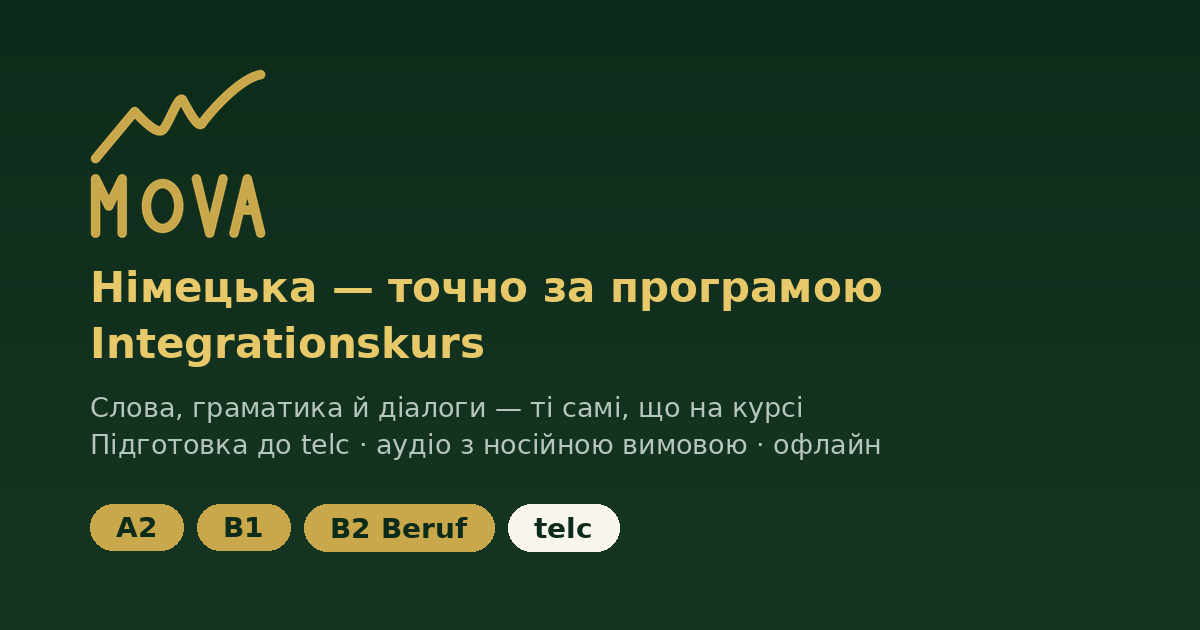
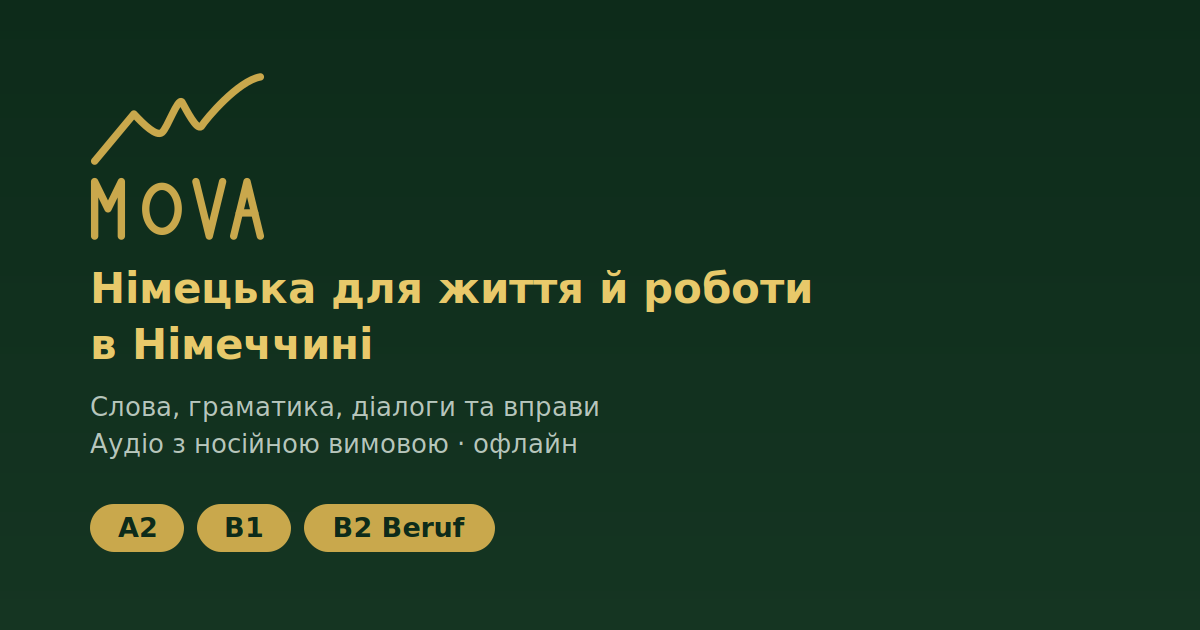
Add files via upload

diff --git a/index.html b/index.html
@@ -14,8 +14,8 @@
 <meta name="apple-mobile-web-app-capable" content="yes">
 <meta name="apple-mobile-web-app-status-bar-style" content="black-translucent">
 <meta name="apple-mobile-web-app-title" content="MOVA">
-<title>MOVA — німецька точно за програмою Integrationskurs</title>
-<meta name="description" content="Слова, граматика й діалоги — ті самі, що на інтеграційних курсах A2, B1 та B2 Beruf. Готуйся до telc з телефону: аудіо з носійною вимовою, живі діалоги, офлайн.">
+<title>MOVA — німецька для життя й роботи в Німеччині</title>
+<meta name="description" content="Слова, граматика й вправи на рівнях A2, B1 та B2 Beruf. Вчи німецьку з телефону: аудіо з носійною вимовою, живі діалоги, офлайн.">
 
 <!-- Open Graph — прев'ю посилання в месенджерах (WhatsApp, Telegram, Viber, Signal...).
      Важливо: ці теги СТАТИЧНІ — краулери месенджерів HTML не рендерять і JS не
@@ -30,8 +30,8 @@
 <meta property="og:type" content="website">
 <meta property="og:site_name" content="MOVA">
 <meta property="og:url" content="https://mova.now/">
-<meta property="og:title" content="MOVA — німецька точно за програмою Integrationskurs">
-<meta property="og:description" content="Слова, граматика й діалоги — ті самі, що на інтеграційних курсах A2, B1 та B2 Beruf. Готуйся до telc: аудіо з носійною вимовою, живі діалоги, офлайн — просто з телефону.">
+<meta property="og:title" content="MOVA — німецька для життя й роботи в Німеччині">
+<meta property="og:description" content="Слова, граматика й вправи на рівнях A2, B1 та B2 Beruf: аудіо з носійною вимовою, живі діалоги, офлайн — просто з телефону.">
 <meta property="og:image" content="https://mova.now/og-image.png">
 <meta property="og:image:width" content="1200">
 <meta property="og:image:height" content="630">
@@ -40,8 +40,8 @@
 <!-- Twitter Card — деякі клієнти (напр. Telegram Instant View, X) читають саме ці,
      а не og:*, тому дублюємо ті самі значення. -->
 <meta name="twitter:card" content="summary_large_image">
-<meta name="twitter:title" content="MOVA — німецька точно за програмою Integrationskurs">
-<meta name="twitter:description" content="Слова, граматика й діалоги — ті самі, що на інтеграційних курсах A2, B1 та B2 Beruf. Готуйся до telc: аудіо з носійною вимовою, живі діалоги, офлайн.">
+<meta name="twitter:title" content="MOVA — німецька для життя й роботи в Німеччині">
+<meta name="twitter:description" content="Слова, граматика й вправи на рівнях A2, B1 та B2 Beruf: аудіо з носійною вимовою, живі діалоги, офлайн — просто з телефону.">
 <meta name="twitter:image" content="https://mova.now/og-image.png">
 <link rel="manifest" href="manifest.json">
 <link rel="apple-touch-icon" href="icon-192.png">
@@ -2849,6 +2849,17 @@ body{
 .ui-lang-btn.ssec-btn{font-size:var(--fs-tertiary);text-align:left;padding:14px 18px}
 .ui-lang-btn .mf{ font-size:1.3em;margin-right:12px;vertical-align:-.25em; }
 .ui-lang-btn.active{border-color:var(--gold);background:rgba(201,168,76,.12);color:var(--gold);font-weight:600}
+/* Кнопки-посилання в налаштуваннях (Політика конфіденційності, Імпресум): напис на кнопці + стрілка */
+.ssec-note{font-size:13px;line-height:1.55;color:var(--muted);margin:2px 2px 14px}
+.ssec-note b{color:var(--warm);font-weight:600}
+.ssec-link-btn{display:flex;align-items:center;width:100%;font-weight:600}
+.ssec-link-btn > span{flex:1}
+.ssec-link-btn .mi-inline{color:var(--gold)}
+.ssec-link-btn .ssec-link-chev{width:1.1em;height:1.1em;flex-shrink:0;color:var(--muted);margin:0 0 0 10px}
+.ssec-link-btn.ssec-action-btn{justify-content:center;gap:6px;white-space:nowrap}
+.ssec-link-btn.ssec-action-btn > span{flex:none}
+.ssec-action-btn #fs-default-val{color:var(--muted);font-weight:500}
+.ssec-link-btn:active{border-color:var(--gold);background:rgba(201,168,76,.12)}
 .fs-setting-val{font-weight:700;font-size:var(--fs-tertiary);color:var(--gold);min-width:36px;text-align:right}
 .fs-setting-scale{display:flex;justify-content:space-between;font-size:var(--fs-utility);color:var(--muted);margin-top:-4px}
 .sp-label{font-size:var(--fs-tertiary);letter-spacing:.8px;text-transform:uppercase}
@@ -5073,9 +5084,7 @@ body{
       <div class="fs-setting-scale">
         <span>14px</span><span>21px</span><span>28px</span>
       </div>
-      <button type="button" class="btn btn-s" style="align-self:flex-start" onclick="resetFontSize()">
-        <span data-i18n="btn_fontsize_reset">Zurücksetzen</span> <span id="fs-default-val"></span>
-      </button>
+      <button type="button" class="btn ui-lang-btn ssec-btn ssec-link-btn ssec-action-btn" onclick="resetFontSize()"><i data-mi="repeat" class="mi-inline"></i><span data-i18n="btn_fontsize_reset">Standardgröße</span><span id="fs-default-val"></span></button>
     </div>
     </div>
     </div><!-- /ГРУПА 1 -->
@@ -5149,13 +5158,10 @@ body{
         <span class="dbg-switch-track"></span>
       </label>
     </div>
-    <div class="srow">
-      <div class="srow-label"><label data-i18n="lbl_privacy_policy">Datenschutzerklärung</label></div>
-      <button class="btn btn-s" style="white-space:nowrap" onclick="window.openPrivacyPolicy&&window.openPrivacyPolicy()"><i data-mi="clipboard" class="mi-inline"></i><span data-i18n="btn_open">Öffnen</span></button>
-    </div>
-    <div class="srow">
-      <div class="srow-label"><label data-i18n="lbl_impressum">Impressum</label></div>
-      <button class="btn btn-s" style="white-space:nowrap" onclick="window.openImpressum&&window.openImpressum()"><i data-mi="clipboard" class="mi-inline"></i><span data-i18n="btn_open">Öffnen</span></button>
+    <p class="ssec-note" data-i18n-html="txt_analytics_info"></p>
+    <div style="display:flex;flex-direction:column;gap:8px;padding:4px 0 0">
+      <button type="button" class="btn ui-lang-btn ssec-btn ssec-link-btn" onclick="window.openPrivacyPolicy&&window.openPrivacyPolicy()"><i data-mi="clipboard" class="mi-inline"></i><span data-i18n="lbl_privacy_policy">Datenschutzerklärung</span><i data-mi="chevron" class="ssec-link-chev"></i></button>
+      <button type="button" class="btn ui-lang-btn ssec-btn ssec-link-btn" onclick="window.openImpressum&&window.openImpressum()"><i data-mi="info" class="mi-inline"></i><span data-i18n="lbl_impressum">Impressum</span><i data-mi="chevron" class="ssec-link-chev"></i></button>
     </div>
     </div>
     </div><!-- /ГРУПА Конфіденційність -->
@@ -5326,7 +5332,7 @@ body{
 <script>
 // ── VERSION ───────────────────────────────────────────────────
 // Змінюйте при кожному деплої → SW автоматично оновиться
-const APP_VERSION = '875-b74300b';
+const APP_VERSION = '177-52a5d5f';
 const BUILD_ID = '1779690311'; // змінюється при кожному деплої
 
 // ── COURSE ENGINE ─────────────────────────────────────────────
@@ -6905,7 +6911,7 @@ const I18N = {
     sec_fontsize:'Schriftgröße',
     lbl_fontsize_card:'Kartengröße',
     lbl_fontsize_card_sub:'Begriff, Definition, Sätze, Kacheln',
-    btn_fontsize_reset:'Zurücksetzen',
+    btn_fontsize_reset:'Standardgröße',
     quiz_score:'Ergebnis',
     
     
@@ -6924,7 +6930,7 @@ const I18N = {
     bugreport_submit:'Senden',
     bugreport_submitting:'Wird gesendet…',
     bugreport_privacy_note:'Gesendet werden: Übungskontext, Ihr Kommentar, technische Geräteinformationen und eine zufällige Installations-ID – keine Namen oder E-Mail-Adressen.',
-     grp_privacy:'Datenschutz', lbl_analytics:'Nutzungsstatistik', sub_analytics:'Google Firebase Analytics – nur mit Ihrer Einwilligung', lbl_privacy_policy:'Datenschutzerklärung', btn_open:'Öffnen', lbl_impressum:'Impressum',
+     grp_privacy:'Datenschutz', lbl_analytics:'Nutzungsstatistik', sub_analytics:'Google Firebase Analytics – nur mit Ihrer Einwilligung', txt_analytics_info:'Es handelt sich nur um Nutzungsstatistik, <b>ohne Ihren Namen oder Ihre E-Mail-Adresse</b>: gewählter Kurs, Oberflächensprache, Lektionsschritte (gestartet, abgeschlossen, abgebrochen) und Gerätetyp. Dafür nutzen wir Google Firebase Analytics: Eine zufällige Nutzer-ID sowie Geräte- und Nutzungsdaten werden an Google übertragen. Die Erfassung erfolgt nur mit Ihrer Einwilligung; die App funktioniert auch ohne sie vollständig.', lbl_privacy_policy:'Datenschutzerklärung', btn_open:'Öffnen', lbl_impressum:'Impressum',
     bugreport_notify_ok:'Danke, der Bericht wurde gesendet',
     bugreport_notify_queued:'Kein Netz — wird später gesendet',
     bugtype_translation:'Schlechte Übersetzung',
@@ -7072,7 +7078,7 @@ const I18N = {
     sec_fontsize:'Розмір шрифту',
     lbl_fontsize_card:'Розмір карток',
     lbl_fontsize_card_sub:'Термін, визначення, речення, плитки',
-    btn_fontsize_reset:'Скинути',
+    btn_fontsize_reset:'Стандартний розмір',
     quiz_score:'Результат', 
     
     sr_no_date_dashboard:'Дату не вказано',
@@ -7090,7 +7096,7 @@ const I18N = {
     bugreport_submit:'Надіслати',
     bugreport_submitting:'Надсилаємо…',
     bugreport_privacy_note:'Надсилається: контекст вправи, ваш коментар, технічна інформація про пристрій і випадковий ідентифікатор встановлення — без імен чи email.',
-     grp_privacy:'Конфіденційність', lbl_analytics:'Статистика використання', sub_analytics:'Google Firebase Analytics — лише за вашою згодою', lbl_privacy_policy:'Політика конфіденційності', btn_open:'Відкрити', lbl_impressum:'Імпресум (Impressum)',
+     grp_privacy:'Конфіденційність', lbl_analytics:'Статистика використання', sub_analytics:'Google Firebase Analytics — лише за вашою згодою', txt_analytics_info:'Це лише статистика користування, <b>без вашого імені та e-mail</b>: обраний курс, мова інтерфейсу, етапи уроків (розпочато, завершено, перервано) і тип пристрою. Для цього використовується Google Firebase Analytics: до Google передаються випадковий ідентифікатор, дані про пристрій і використання. Збір працює лише за вашою згодою, а застосунок повністю працює й без неї.', lbl_privacy_policy:'Політика конфіденційності', btn_open:'Відкрити', lbl_impressum:'Імпресум (Impressum)',
     bugreport_notify_ok:'Дякуємо, звіт надіслано',
     bugreport_notify_queued:'Мережі нема — надішлемо пізніше',
     bugtype_translation:'Поганий переклад',
@@ -7239,7 +7245,7 @@ const I18N = {
     sec_fontsize:'Font Size',
     lbl_fontsize_card:'Card size',
     lbl_fontsize_card_sub:'Term, definition, sentences, tiles',
-    btn_fontsize_reset:'Reset',
+    btn_fontsize_reset:'Default size',
     
     
     sr_no_date_dashboard:'No date set',
@@ -7257,7 +7263,7 @@ const I18N = {
     bugreport_submit:'Submit',
     bugreport_submitting:'Sending…',
     bugreport_privacy_note:'Sent: exercise context, your comment, technical device info and a random installation ID – no names or email addresses.',
-     grp_privacy:'Privacy', lbl_analytics:'Usage statistics', sub_analytics:'Google Firebase Analytics – only with your consent', lbl_privacy_policy:'Privacy policy', btn_open:'Open', lbl_impressum:'Legal notice (Impressum)',
+     grp_privacy:'Privacy', lbl_analytics:'Usage statistics', sub_analytics:'Google Firebase Analytics – only with your consent', txt_analytics_info:'This is only usage statistics, <b>without your name or e-mail address</b>: selected course, interface language, lesson steps (started, completed, abandoned) and device type. We use Google Firebase Analytics: a random user ID plus device and usage data are sent to Google. Collection happens only with your consent, and the app works fully without it.', lbl_privacy_policy:'Privacy policy', btn_open:'Open', lbl_impressum:'Legal notice (Impressum)',
     bugreport_notify_ok:'Thanks, your report was sent',
     bugreport_notify_queued:'No network — we\'ll send it later',
     bugtype_translation:'Bad translation',
@@ -7405,7 +7411,7 @@ const I18N = {
     sec_fontsize:'Размер шрифта',
     lbl_fontsize_card:'Размер карточек',
     lbl_fontsize_card_sub:'Термин, определение, предложения, плитки',
-    btn_fontsize_reset:'Сбросить',
+    btn_fontsize_reset:'Стандартный размер',
     
     
     sr_no_date_dashboard:'Дата не указана',
@@ -7423,7 +7429,7 @@ const I18N = {
     bugreport_submit:'Отправить',
     bugreport_submitting:'Отправляем…',
     bugreport_privacy_note:'Отправляется: контекст упражнения, ваш комментарий, техническая информация об устройстве и случайный идентификатор установки — без имён и email.',
-     grp_privacy:'Конфиденциальность', lbl_analytics:'Статистика использования', sub_analytics:'Google Firebase Analytics — только с вашего согласия', lbl_privacy_policy:'Политика конфиденциальности', btn_open:'Открыть', lbl_impressum:'Импрессум (Impressum)',
+     grp_privacy:'Конфиденциальность', lbl_analytics:'Статистика использования', sub_analytics:'Google Firebase Analytics — только с вашего согласия', txt_analytics_info:'Это только статистика использования, <b>без вашего имени и e-mail</b>: выбранный курс, язык интерфейса, этапы уроков (начато, завершено, прервано) и тип устройства. Для этого используется Google Firebase Analytics: в Google передаются случайный идентификатор, данные об устройстве и использовании. Сбор работает только с вашего согласия, а приложение полностью работает и без него.', lbl_privacy_policy:'Политика конфиденциальности', btn_open:'Открыть', lbl_impressum:'Импрессум (Impressum)',
     bugreport_notify_ok:'Спасибо, отчёт отправлен',
     bugreport_notify_queued:'Нет сети — отправим позже',
     bugtype_translation:'Плохой перевод',
@@ -7544,6 +7550,8 @@ function applyI18n(){
     if(/[\u2605\u2606]/.test(_v) && !/</.test(_v)) el.innerHTML = _iconizeText(_v);
     else el.textContent = _v;
   });
+  // Тексти з розміткою (<b>) — окремим атрибутом data-i18n-html (рядки лише наші, не користувацькі)
+  document.querySelectorAll('[data-i18n-html]').forEach(el=>{ el.innerHTML = t(el.dataset.i18nHtml); });
   // Атрибут title (підказка при наведенні) — той самий принцип,
   // окремим data-i18n-title, бо data-i18n змінює лише textContent.
   document.querySelectorAll('[data-i18n-title]').forEach(el=>{
